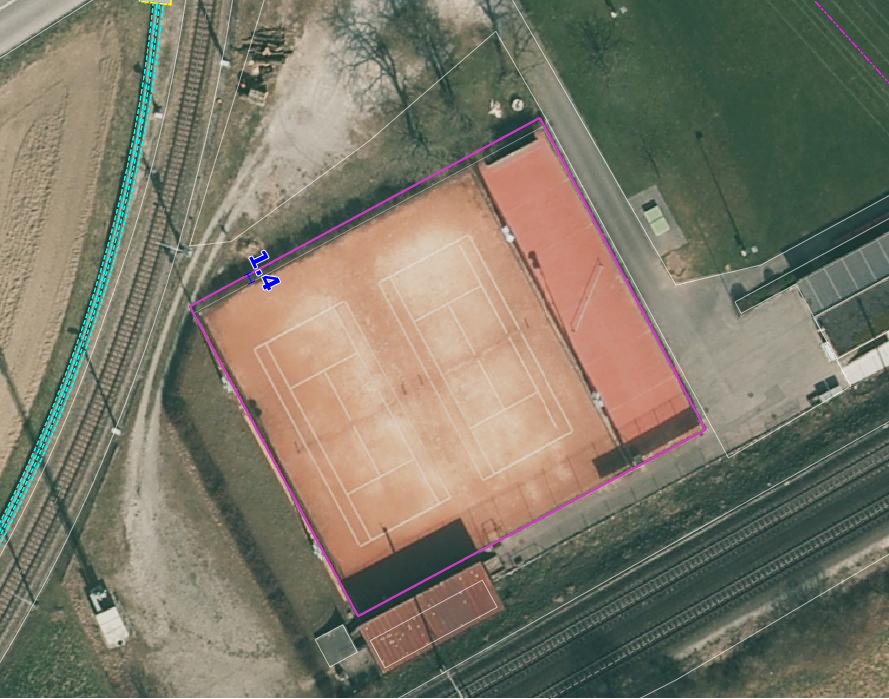
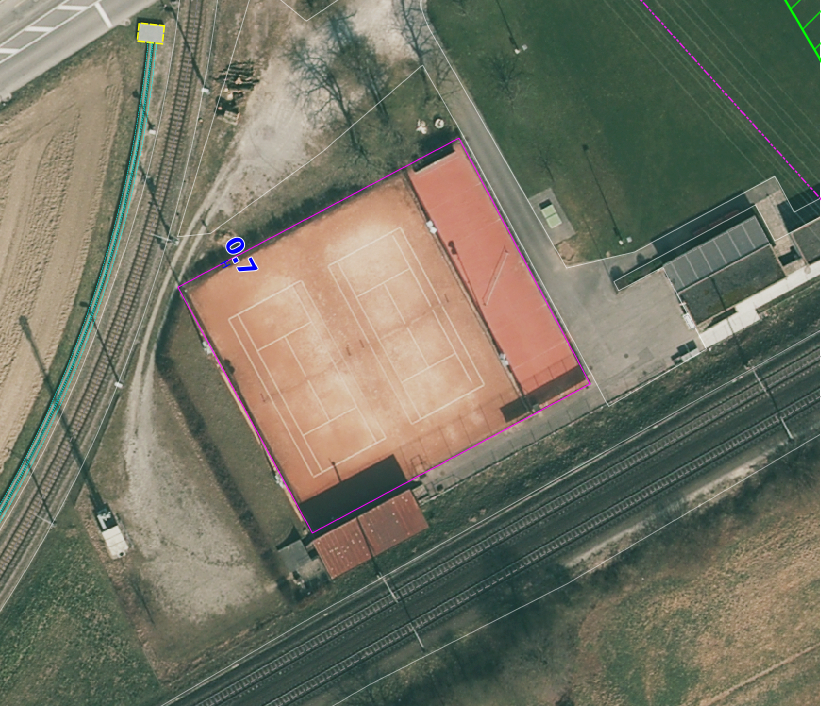
Korrektur gemäss TK

diff --git a/source/seltene_objekte.rst b/source/seltene_objekte.rst
@@ -99,7 +99,7 @@ Beispiele:
 |   :target: _static/seltene_Objekte_Sportplatz_befestigt_Lagedifferenz.png           |   :target: _static/seltene_Objekte_Sportplatz_befestigt_Lagedifferenz_korr.png     |
 |                                                                                     |                                                                                    |
 |   ``BB.Sportanlage_befestigt`` ist zu korrigieren, weil  die Lagedifferenz          |   ``BB.Sportanlage_befestigt`` ist zu korrigieren gemäss den rot                   |
-|   grösser als die Toleranz (TS2: 1m) ist.                                           |   dargestellten Linien.                                                            | 
+|   grösser als die Toleranz (TS2: 0.5m) ist.                                         |   dargestellten Linien.                                                            | 
 +-------------------------------------------------------------------------------------+------------------------------------------------------------------------------------+
 |.. _seltene_Objekte_Sportplatz_befestigt_Lagedifferenz_nicht:                        |                                                                                    |
 |                                                                                     |                                                                                    |
@@ -108,7 +108,7 @@ Beispiele:
 |   :target: _static/seltene_Objekte_Sportplatz_befestigt_Lagedifferenz_nicht.        |                                                                                    |
 |                                                                                     |                                                                                    |
 |   ``BB.Sportanlage_befestigt`` ist **nicht** zu korrigieren, weil die Lagedifferenz |                                                                                    |
-|   kleiner als die Toleranz (TS2: 1.5m) ist.                                         |                                                                                    | 
+|   kleiner als die Toleranz (TS3: 1m) ist.                                           |                                                                                    | 
 +-------------------------------------------------------------------------------------+------------------------------------------------------------------------------------+
 
 
@@ -200,19 +200,14 @@ Darstellung nicht nach Richtlinie
 Im Rahmen der PNF/Homogenisierung werden keine Änderungen vorgenommen.   
 
    
-BB.Fels / BB.Geroell_Sand / BB.uebrige_vegetationslose    
------------------------------------------------------- 
-.. index:: Fels, Geröll, Sand, übrige vegetationslose
-
+BB.Fels   
+-------
+.. index:: Fels
 
 Lagedifferenz                                                              
 ^^^^^^^^^^^^^  
-Möglichkeiten ??????????
-
-1. ???Wird eine Lagedifferenz zwischen der AV und dem aktuellen Orthofoto grösser als die Toleranz (siehe :ref:`ref_Tz`) detektiert, so ist das Objekt in der AV zu korrigieren. Liegt die Differenz innerhalb der Toleranz, wird das Objekt nicht angepasst. Objekten, bei denen die Abgrenzungen auf dem Orthofoto nicht genau zu erkennen sind, sind so zu belassen.    
+Werden offensichtliche Differenzen zwischen der AV und dem aktuellen Orthofoto festgestellt, sind diese zu korrigieren. Objekten, bei denen die Abgrenzungen auf dem Orthofoto nicht genau zu erkennen sind, sind so zu belassen.    
    
-2. **Lagedifferenzen werden nicht korrigiert und werden zu einem späteren Zeitpunkt aus dem topografischen Landschaftsmodell übernommen.**
-
 
 Benötigte Layer im QGIS:    
 
@@ -220,11 +215,14 @@ Benötigte Layer im QGIS:
 
    Seltene Objekte / Lagekontrolle   
 
-Objekt fehlt/löschen/umattribuieren   
-^^^^^^^^^^^^^^^^^^^^^^^^^^^^^^^^^^^
-Ist auf dem aktuellen Orthofoto eine Fläche mit Fels, Geröll oder übrigen Vegetationslosen zu erkennen, die das Aufnahmekriterium gemäss ... erfüllt???, ist diese im Rahmen der PNF/Homogenisierung neu zu erfassen. Falls in der AV eine Fläche mit Fels, Geröll oder übrigen vegetationslos vorhanden ist, welche auf dem aktuellen Orthofoto nicht mehr zu erkennen ist, ist dieses Objekt zu löschen oder evtl. einer anderen BB.Art zu zuweisen.
+Objekt fehlt
+^^^^^^^^^^^^
+Im Rahmen der PNF/Homogenisierung werden keine Änderungen vorgenommen.   
 
-????ACHTUNG: Abgrenzung zu Lagedifferenz, falls diese nicht korrigiert wird.                                      
+Objekt löschen/umattribuieren   
+^^^^^^^^^^^^^^^^^^^^^^^^^^^^^
+Falls in der AV eine Fels erfasst ist, welche auf dem aktuellen Orthofoto nicht mehr zu erkennen ist, ist dieses Objekt zu löschen oder evtl. einer anderen BB.Art zu zuweisen.
+                                      
 
 Benötigte Layer im QGIS:    
 
@@ -236,7 +234,35 @@ Darstellung nicht nach Richtlinie
 ^^^^^^^^^^^^^^^^^^^^^^^^^^^^^^^^^     
 Im Rahmen der PNF/Homogenisierung werden keine Änderungen vorgenommen.       
                       
-  
+BB.Geroell_Sand / BB.uebrige_vegetationslose   
+--------------------------------------------
+.. index:: Geröll, Sand, übrige vegetationslose
+
+Lagedifferenz 
+^^^^^^^^^^^^^
+Wird eine Lagedifferenz zwischen der AV und dem aktuellen Orthofoto grösser als die Toleranz (siehe :ref:`ref_Tz`) detektiert, so ist das Objekt in der AV zu korrigieren. Liegt die Differenz innerhalb der Toleranz, wird das Objekt nicht angepasst. Objekten, bei denen die Abgrenzungen auf dem Orthofoto nicht genau zu erkennen sind, sind so zu belassen.
+
+Objekt fehlt
+^^^^^^^^^^^^
+
+
+Objekt löschen/umattribuieren   
+^^^^^^^^^^^^^^^^^^^^^^^^^^^^^^^^^^^
+Ist auf dem aktuellen Orthofoto eine Fläche mit Geröll,Sand oder übrigen Vegetationslosen zu erkennen, die/der das Flächenkriterium erfüllt, ist diese im Rahmen der PNF/Homogenisierung neu zu erfassen. Falls in der AV eine Fläche mit Geröll, Sand oder übrigen vegetationslos vorhanden ist, welche auf dem aktuellen Orthofoto nicht mehr zu erkennen ist oder das Flächenkriterium nicht erfüllt, ist dieses Objekt zu löschen oder evtl. einer anderen BB.Art zu zuweisen.
+                                    
+
+Benötigte Layer im QGIS:    
+
+.. code-block:: none
+
+   Seltene Objekte / Lagekontrolle   
+          
+   
+Darstellung nicht nach Richtlinie  
+^^^^^^^^^^^^^^^^^^^^^^^^^^^^^^^^^     
+Im Rahmen der PNF/Homogenisierung werden keine Änderungen vorgenommen.    
+
+
 BB.Steinbruch / BB.Kiesgrube / BB.uebriger_Abbau / BB.Deponie
 -------------------------------------------------------------                
 .. index:: Steinbruch, Kiesgrube, übriger Abbau, Deponie
@@ -284,7 +310,10 @@ EO.Brunnen
 
 Lagedifferenz                                                                                    
 ^^^^^^^^^^^^^                                                               
-Im Rahmen der PNF/Homogenisierung werden keine Lagedifferenzen korrigiert. Sind Lagedifferenzen vorhanden die mittels Orthofoto ermittelt werden können, ist der ``EO.Brunnen`` zu löschen.    
+Wird bei einem Brunnen mit öffentlichen Charakter eine Lagedifferenz zwischen der AV und dem aktuellen Orthofoto grösser als die Toleranz (siehe :ref:`ref_Tz`) detektiert, so ist der Brunnen in der AV zu korrigieren
+
+.. note::
+   Fehler aus der laufenden Nachführung können nicht über die PNF/Homogenisierung abgerechnet werden.
                                                                                                   
 Objekt fehlt/löschen   
 ^^^^^^^^^^^^^^^^^^^^^                                                                                                                                                              
@@ -301,9 +330,56 @@ Darstellung nicht nach Richtlinie
 Darzustellen ist die äusseren Umrandung der Brunnen inkl. Brunnenstock (siehe *Handbuch der amtlichen Vermessung Kanton Solothurn*). Falls mehr Details (z.B. einzelner Brunnenstock oder Füllbereich) des Brunnen dargestellt sind, sind diese zu korrigieren.
 
 
-EO.Mast_Antenne / EO. Mast_Leitung / EO.Hochspannungsfreileitung
-----------------------------------------------------------------
-.. index:: Mast_Antenne, Mast_Leitung, Antenne, Leitung, Hochspannungsfreileitung
+EO.Mast_Antenne
+---------------
+.. index:: Mast_Antenne
+
+Lagedifferenz                                                                                                                                                               
+^^^^^^^^^^^^^
+Wird eine Lagedifferenz zwischen der AV und dem aktuellen Orthofoto grösser als die Toleranz (siehe :ref:`ref_Tz`) detektiert, so ist das Objekt in der AV zu korrigieren. Liegt die Differenz innerhalb der Toleranz, wird das Objekt nicht angepasst. 
+
+Benötigte Layer im QGIS:       
+
+.. code-block:: none   
+
+   Seltene Objekte / Lagekontrolle   
+   
+  
+Objekt fehlt/löschen/umattribuieren   
+^^^^^^^^^^^^^^^^^^^^^^^^^^^^^^^^^^^    
+.. |pfeil| image:: _static/pfeil.png
+
+|  Zur Volständigkeitskontrolle der Antennen dienen die Daten der Radio-/Fernsehsender und Mobilfunkantennen des Bundes. Antennen die auf dem aktuellen Orthofoto nicht mehr vorhandnen sind, sind zu löschen.
+
+                                                                        
+        
+Benötigte Layer im QGIS:       
+
+.. code-block:: none   
+
+   Seltene Objekte / Lagekontrolle    
+   Seltene Objekte / Lagekontrolle / Radio- und Fernsehsender
+   Seltene Objekte / Lagekontrolle / Mobilfunkantennen UMTS
+   Seltene Objekte / Lagekontrolle / Mobilfunkantennen GSM
+
+   
+Darstellung nicht nach Richtlinie 
+^^^^^^^^^^^^^^^^^^^^^^^^^^^^^^^^^
+Objekte der Arten ``EO.Mast_Antenne``, die nicht gemäss *Handbuch der amtlichen Vermessung Kanton Solothurn* dargestellt sind, sind dementsprechend zu korrigieren.
+
+Benötigte Layer im QGIS:       
+
+.. code-block:: none    
+   
+   Seltene Objekte / Lagekontrolle  
+   Seltene Objekte / Checklayer        
+
+   
+
+EO. Mast_Leitung / EO.Hochspannungsfreileitung
+----------------------------------------------
+.. index:: Mast_Leitung, Leitung, Hochspannungsfreileitung
+
 
 Lagedifferenz                                                                                                                                                               
 ^^^^^^^^^^^^^
@@ -331,11 +407,10 @@ Objekt fehlt/löschen/umattribuieren
 ^^^^^^^^^^^^^^^^^^^^^^^^^^^^^^^^^^^    
 .. |pfeil| image:: _static/pfeil.png
 
-|  Zur Vollständigkeitskontrolle der Hochspannungsfreileitung und deren Masten kann der Layer ``Freileitungen (ARP)`` verwendet werden. In QGIS ist mit dem Abfragetool (|pfeil| auf Objekt klicken ) das Attribut ``voltage`` zu überprüfen. Nur Leitungen mit > 50kV werden in der AV geführt. 
-   Hochspannungsfreileitungen und deren Masten, die auf dem aktuellen Orthofoto nicht mehr vorhandnen sind oder bei deren die Spannung der Hochspannungsfreileitung < 50kV ist, sind zu löschen.
-|  Als Volständigkeitskontrolle der Antennen dienen die Daten der Radio-/Fernsehsender und Mobilfunkantennen des Bundes. Auch hier sind die Objekte, die auf dem aktuellen Orthofoto nicht mehr zu erkennen sind, zu löschen.
-|  Fehlende Masten bei Gondelbahnen und Sesselbahnen sind zu erfassen. Hingegen sind die erfassten Masten bei Materialseilbahnen und Skilifte zu löschen.
-|  Objekte mit falscher Art sind umzuattribuieren.
+Zur Vollständigkeitskontrolle der Hochspannungsfreileitung und deren Masten kann der Layer ``Freileitungen (ARP)`` verwendet werden. In QGIS ist mit dem Abfragetool (|pfeil| auf Objekt klicken ) das Attribut ``voltage`` zu überprüfen. Nur Leitungen mit > 50kV werden in der AV geführt. 
+Hochspannungsfreileitungen und deren Masten, die auf dem aktuellen Orthofoto nicht mehr vorhandnen sind oder bei deren die Spannung der Hochspannungsfreileitung < 50kV ist, sind zu löschen.
+Fehlende Masten bei Gondelbahnen und Sesselbahnen sind zu erfassen. Hingegen sind die erfassten Masten bei Materialseilbahnen und Skilifte zu löschen.
+Objekte mit falscher Art sind umzuattribuieren.
                                                                         
         
 Benötigte Layer im QGIS:       
@@ -344,14 +419,11 @@ Benötigte Layer im QGIS:
 
    Seltene Objekte / Lagekontrolle    
    Seltene Objekte / Lagekontrolle / Freileitungen (ARP)
-   Seltene Objekte / Lagekontrolle / Radio- und Fernsehsender
-   Seltene Objekte / Lagekontrolle / Mobilfunkantennen UMTS
-   Seltene Objekte / Lagekontrolle / Mobilfunkantennen GSM
 
    
 Darstellung nicht nach Richtlinie 
 ^^^^^^^^^^^^^^^^^^^^^^^^^^^^^^^^^
-Objekte der Arten ``EO.Mast_Antenne``, ``EO.Mast_Leitung`` und ``EO.Hochspannungsfreileitung``, die nicht gemäss *Handbuch der amtlichen Vermessung Kanton Solothurn* dargestellt sind, sind dementsprechend zu korrigieren.
+Objekte der Arten ``EO.Mast_Leitung`` und ``EO.Hochspannungsfreileitung``, die nicht gemäss *Handbuch der amtlichen Vermessung Kanton Solothurn* dargestellt sind, sind dementsprechend zu korrigieren.
 
 Benötigte Layer im QGIS:       
 
@@ -371,6 +443,7 @@ Beispiele:
 |                                                                                     |                                                                                    |
 |   ``EO.Mast_Leitung`` ist als Linie darzustellen und nicht als Symbol.              |   ``EO.Hochspannungsfreileitung`` ist nur mit einer Linie darzustellen.            |
 +-------------------------------------------------------------------------------------+------------------------------------------------------------------------------------+     
+
 
 EO.einzelner_Fels
 -----------------                                                                      
@@ -407,6 +480,9 @@ Benötigte Layer im QGIS:
 Objekt fehlt/löschen/umattribuieren    
 ^^^^^^^^^^^^^^^^^^^^^^^^^^^^^^^^^^^^^ 
 Ist auf dem aktuellen Orthofoto eine Gondelbahn, Sesselbahn, Materialseilbahn oder ein Skilift zu erkennen, die nicht in der AV ist, ist diese/dieser im Rahmen der PNF/Homogenisierung neu zu erfassen. Falls in der AV eine Gondelbahn, Sesselbahn, Materialseilbahn oder ein Skilift vorhanden ist, welche auf dem aktuellen Orthofoto nicht mehr zu erkennen ist oder nicht mehr bewirtschaftet wird, ist dieses Objekt zu löschen.
+
+.. note::
+   Falls das Seil der Gondelbahn, Sesselbahn, Materialseilbahn oder des Skilift noch vorhanden ist, gilt die Bahn als noch bewirtschaftet.
 
 Benötigte Layer im QGIS:       
 
